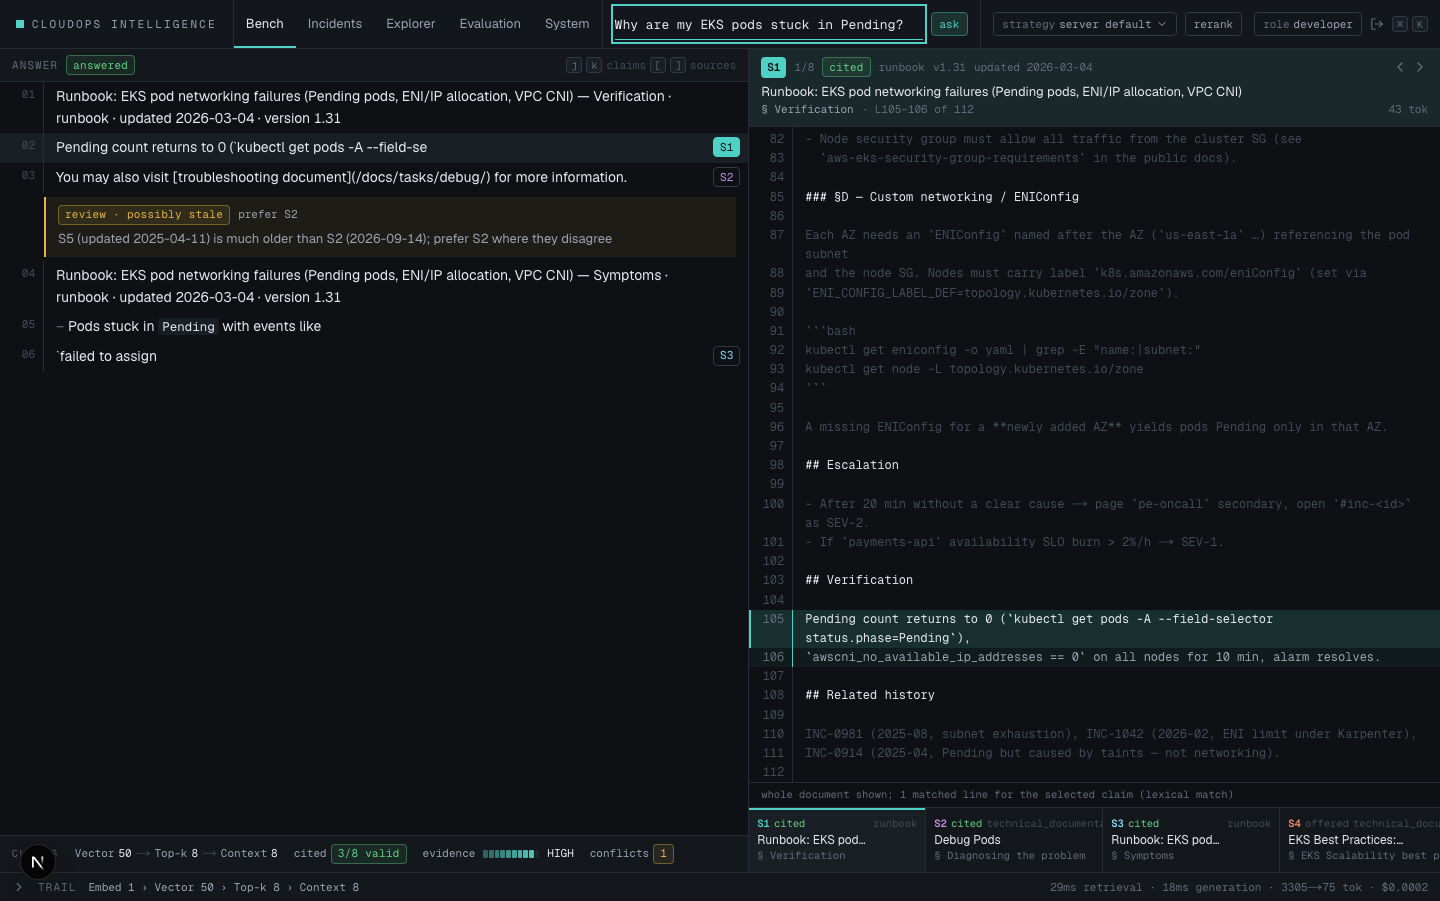
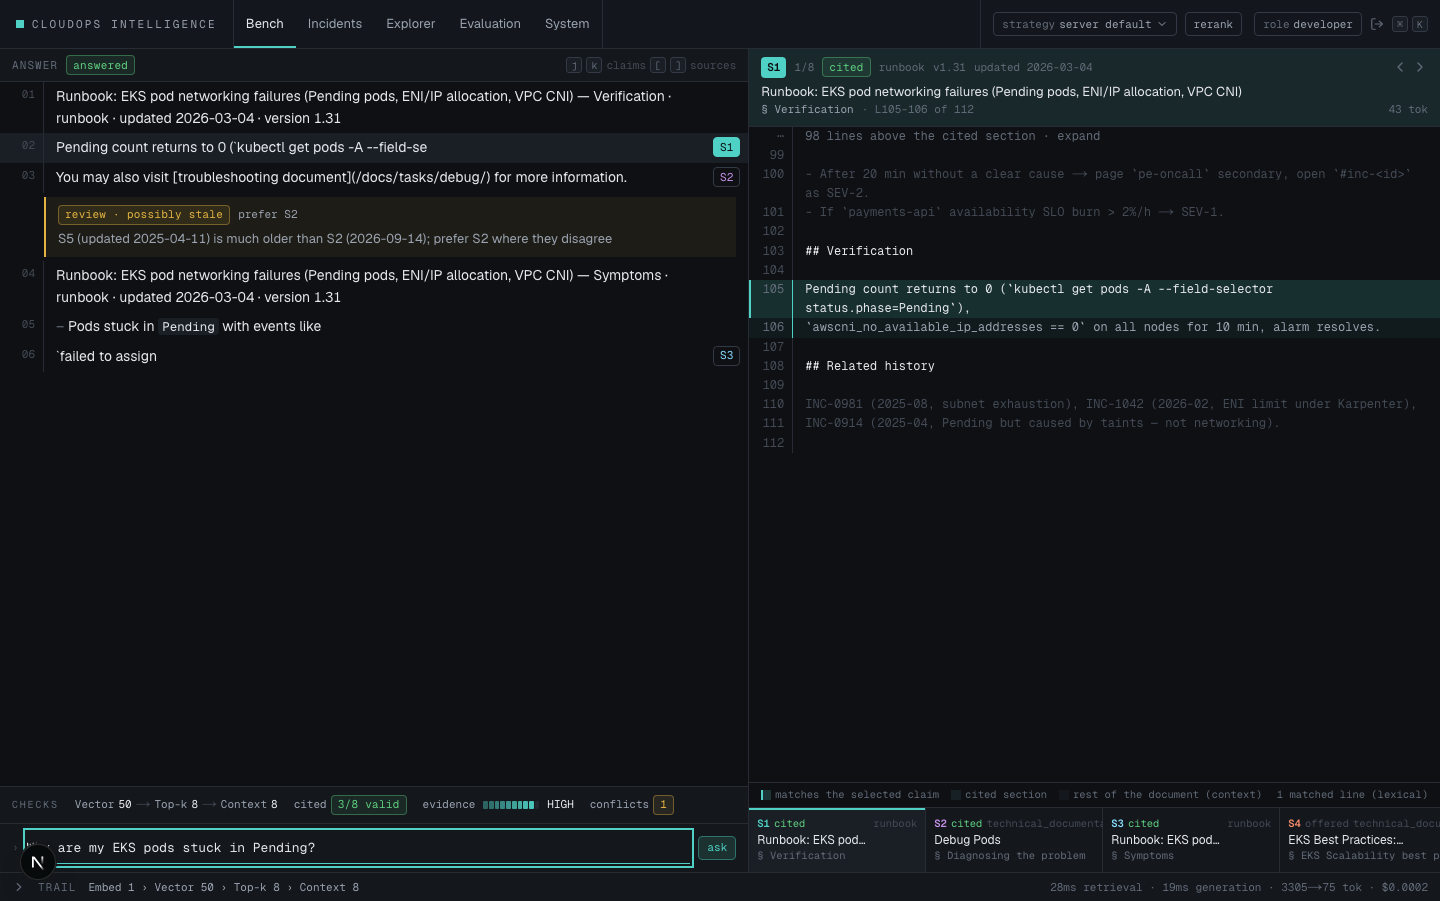
ui: question field at the bottom of the answer pane; evidence hunk with folded context and legend
User-pinned after the finish review. The evidence file now opens on the cited section
with ±6 lines of context and folds the remainder behind expanders; a footer legend
names the three emphasis levels (matches claim / cited section / document context).

Claude-Session: https://claude.ai/code/session_01XUEaqZHQkjoLamzzJC27rs

diff --git a/apps/web/src/components/sources/EvidencePane.tsx b/apps/web/src/components/sources/EvidencePane.tsx
@@ -63,6 +63,10 @@ export function EvidencePane({
     return new Set(matchLines(claimText, file.lines.slice(s, e)).map((i) => i + s));
   }, [src, claimText, file]);
 
+  const [expanded, setExpanded] = useState<Set<"above" | "below">>(new Set());
+  useEffect(() => {
+    queueMicrotask(() => setExpanded(new Set()));
+  }, [src?.sid]);
   const scroller = useRef<HTMLDivElement>(null);
   const anchor = useRef<HTMLDivElement>(null);
   useEffect(() => {
@@ -89,6 +93,11 @@ export function EvidencePane({
   };
   const [hs, he] = file.hunk;
   const anchorLine = hits.size ? Math.min(...hits) : hs;
+  const CONTEXT = 6;
+  const visibleFrom = expanded.has("above") ? 0 : Math.max(0, hs - CONTEXT);
+  const visibleTo = expanded.has("below") ? file.lines.length : Math.min(file.lines.length, he + CONTEXT);
+  const foldAbove = visibleFrom;
+  const foldBelow = file.lines.length - visibleTo;
   return (
     <div className="flex h-full min-h-0 flex-col" style={{ ["--tint" as string]: tint }}>
       <header className="border-b border-border-subtle px-3 py-2" style={{ background: `color-mix(in srgb, ${tint} 9%, var(--surface-1))` }}>
@@ -117,7 +126,14 @@ export function EvidencePane({
         </div>
       </header>
       <div ref={scroller} className="pane relative max-h-[60vh] min-h-0 flex-1 overflow-auto font-mono text-[12px] leading-[1.6] lg:max-h-none" role="region" aria-label={`Evidence from ${src.title}`}>
-        {file.lines.map((line, i) => {
+        {foldAbove > 0 && (
+          <button type="button" onClick={() => setExpanded((e) => new Set([...e, "above"]))} className="grid w-full grid-cols-[44px_1fr] text-left text-text-muted hover:bg-surface-2">
+            <span className="border-r border-border-subtle pr-2 text-right text-text-faint">⋯</span>
+            <span className="px-3">{foldAbove} line{foldAbove > 1 ? "s" : ""} above the cited section · expand</span>
+          </button>
+        )}
+        {file.lines.slice(visibleFrom, visibleTo).map((line, k) => {
+          const i = visibleFrom + k;
           const hit = hits.has(i);
           const inHunk = i >= hs && i < he;
           return (
@@ -133,10 +149,18 @@ export function EvidencePane({
             </div>
           );
         })}
+        {foldBelow > 0 && (
+          <button type="button" onClick={() => setExpanded((e) => new Set([...e, "below"]))} className="grid w-full grid-cols-[44px_1fr] text-left text-text-muted hover:bg-surface-2">
+            <span className="border-r border-border-subtle pr-2 text-right text-text-faint">⋯</span>
+            <span className="px-3">{foldBelow} line{foldBelow > 1 ? "s" : ""} below the cited section · expand</span>
+          </button>
+        )}
       </div>
-      <footer className="border-t border-border-subtle px-3 py-1 font-mono text-[10.5px] text-text-muted">
-        {file.whole ? "whole document shown; " : "section only (document unavailable); "}
-        {hits.size > 0 ? `${hits.size} matched line${hits.size > 1 ? "s" : ""} for the selected claim (lexical match)` : claimText ? "no strong lexical match for the selected claim — read the hunk" : "select a claim to match lines"}
+      <footer className="flex flex-wrap items-center gap-x-3 gap-y-1 border-t border-border-subtle px-3 py-1 font-mono text-[10.5px] text-text-muted">
+        <span className="inline-flex items-center gap-1"><span className="inline-block h-2.5 w-2.5" style={{ background: `color-mix(in srgb, ${tint} 16%, var(--surface-1))`, boxShadow: `inset 2px 0 0 ${tint}` }} /> matches the selected claim</span>
+        <span className="inline-flex items-center gap-1"><span className="inline-block h-2.5 w-2.5" style={{ background: `color-mix(in srgb, ${tint} 5%, var(--surface-1))` }} /> cited section</span>
+        <span className="inline-flex items-center gap-1"><span className="inline-block h-2.5 w-2.5 bg-surface-1" /> rest of the document (context)</span>
+        <span className="ml-auto">{hits.size > 0 ? `${hits.size} matched line${hits.size > 1 ? "s" : ""} (lexical)` : claimText ? "no strong lexical match — read the section" : "select a claim"}</span>
       </footer>
     </div>
   );

diff --git a/apps/web/src/components/answer/Bench.tsx b/apps/web/src/components/answer/Bench.tsx
@@ -89,37 +89,40 @@ export function Bench({ settings, registerQueryField }: { settings: BenchSetting
     [settings],
   );
 
-  // Query field lives in the command bar; we hand it up as a node.
+  const queryForm = (
+    <form
+      className="flex items-center gap-2 border-t border-border-subtle bg-surface-1 px-3 py-2"
+      onSubmit={(e) => {
+        e.preventDefault();
+        void ask(question);
+      }}
+    >
+      <span className="font-mono text-[11px] text-text-faint" aria-hidden="true">›</span>
+      <input
+        ref={input}
+        value={question}
+        onChange={(e) => setQuestion(e.target.value)}
+        placeholder="Ask the platform — e.g. why are my EKS pods stuck in Pending?"
+        aria-label="Question"
+        autoFocus
+        className="h-8 w-full bg-transparent font-mono text-[13px] text-text-primary placeholder:text-text-faint focus:shadow-[inset_0_-1px_0_var(--accent)] focus:outline-none"
+      />
+      {phase === "retrieving" || phase === "synthesizing" ? (
+        <button type="button" onClick={() => abort.current?.abort()} className="h-6 shrink-0 rounded-sm border border-border-strong px-2 font-mono text-[11px] text-text-secondary hover:text-text-primary">
+          stop
+        </button>
+      ) : (
+        <button type="submit" className="h-6 shrink-0 rounded-sm border border-accent-50 bg-accent-15 px-2 font-mono text-[11px] whitespace-nowrap text-accent hover:bg-accent-30">
+          ask
+        </button>
+      )}
+    </form>
+  );
+
+  // The command bar's query slot stays empty on the bench; the field lives in the pane.
   useEffect(() => {
-    registerQueryField(
-      <form
-        className="flex w-full items-center gap-2"
-        onSubmit={(e) => {
-          e.preventDefault();
-          void ask(question);
-        }}
-      >
-        <input
-          ref={input}
-          value={question}
-          onChange={(e) => setQuestion(e.target.value)}
-          placeholder="Ask the platform — e.g. why are my EKS pods stuck in Pending?"
-          aria-label="Question"
-          autoFocus
-          className="h-8 w-full bg-transparent font-mono text-[13px] text-text-primary placeholder:text-text-faint focus:shadow-[inset_0_-1px_0_var(--accent)] focus:outline-none"
-        />
-        {phase === "retrieving" || phase === "synthesizing" ? (
-          <button type="button" onClick={() => abort.current?.abort()} className="h-6 rounded-sm border border-border-strong px-2 font-mono text-[11px] text-text-secondary hover:text-text-primary">
-            stop
-          </button>
-        ) : (
-          <button type="submit" className="h-6 shrink-0 rounded-sm border border-accent-50 bg-accent-15 px-2 font-mono text-[11px] whitespace-nowrap text-accent hover:bg-accent-30">
-            ask
-          </button>
-        )}
-      </form>,
-    );
-  }, [question, phase, ask, registerQueryField]);
+    registerQueryField(null);
+  }, [registerQueryField]);
 
   useEffect(() => {
     const onKey = (e: KeyboardEvent) => {
@@ -213,6 +216,7 @@ export function Bench({ settings, registerQueryField }: { settings: BenchSetting
             )}
           </div>
           <ChecksStrip trail={trail} response={response} phase={phase} />
+          {queryForm}
         </section>
         {/* RIGHT: the evidence file */}
         <section className="flex min-h-0 min-w-0 flex-col bg-surface-0" aria-label="Evidence">

diff --git a/docs/ui.md b/docs/ui.md
@@ -10,7 +10,7 @@ brief and direction contract in `.impeccable/surfaces/`.
 | Route | What it is |
 |---|---|
 | `/login` | Role switcher (three demo principals as a column-locked table) + credentials form; real JWT underneath |
-| `/` | **Bench**: command bar (tabs · query · strategy/rerank chips · role); left pane = answer as numbered claim lines with `[S#]` gutter markers and conflicts pinned as review comments; right pane = the **evidence file** — the whole cited document, line-numbered, cited section as the hunk, lexically matched lines lit; CHECKS strip (stages → counts · cited n/m · evidence ramp · conflicts); source plates at one fixed scale; trail packet → sheet with the query plan and usage |
+| `/` | **Bench**: command bar (tabs · strategy/rerank chips · role); left pane = the question field (bottom, compose-box style) and the answer as numbered claim lines with `[S#]` gutter markers and conflicts pinned as review comments; right pane = the **evidence file** — the cited section as a hunk with ±6 lines of context, the rest of the document folded behind expanders, lexically matched lines lit, legend in the footer; CHECKS strip (stages → counts · cited n/m · evidence ramp · conflicts); source plates at one fixed scale; trail packet → sheet with the query plan and usage |
 | `/incidents`, `/incidents/[id]` | column-locked incident table with severity filter; detail with services, root-cause category, related / same-cause / shared-service incidents |
 | `/explorer` | corpus as a type/tag map for your role; document list; line-numbered document view with supersedes/related links |
 | `/evaluation` | strategy comparison table from `evaluation/reports/*.json` with per-category breakdown; honest empty state until real runs exist |

diff --git a/.impeccable/brief-console.md b/.impeccable/brief-console.md
@@ -50,5 +50,10 @@ exact excerpt lines in the evidence pane and tints its header; keyboard j/k move
 line highlight fades in 120ms, trail packet deploys 200ms; no motion on hover except tint; all
 motion off under prefers-reduced-motion.
 
+USER-PINNED CHANGES (2026-09-15, after finish review): the query field lives at the bottom of the
+answer pane (a compose box below CHECKS), not in the command bar; the evidence file opens on the
+cited hunk with ±6 lines of context and folds the rest behind "⋯ N lines · expand", with a legend
+(matches the claim / cited section / rest of document).
+
 FINISH: unreviewed and undocumented is unfinished; this build ends with the finish review, the
 verdict, DESIGN.md, and every shipping raster carrying its provenance.

diff --git a/.impeccable/surfaces/apps-web-src-app-page-tsx.md b/.impeccable/surfaces/apps-web-src-app-page-tsx.md
@@ -57,5 +57,10 @@ exact excerpt lines in the evidence pane and tints its header; keyboard j/k move
 line highlight fades in 120ms, trail packet deploys 200ms; no motion on hover except tint; all
 motion off under prefers-reduced-motion.
 
+USER-PINNED CHANGES (2026-09-15, after finish review): the query field lives at the bottom of the
+answer pane (a compose box below CHECKS), not in the command bar; the evidence file opens on the
+cited hunk with ±6 lines of context and folds the rest behind "⋯ N lines · expand", with a legend
+(matches the claim / cited section / rest of document).
+
 FINISH: unreviewed and undocumented is unfinished; this build ends with the finish review, the
 verdict, DESIGN.md, and every shipping raster carrying its provenance.
